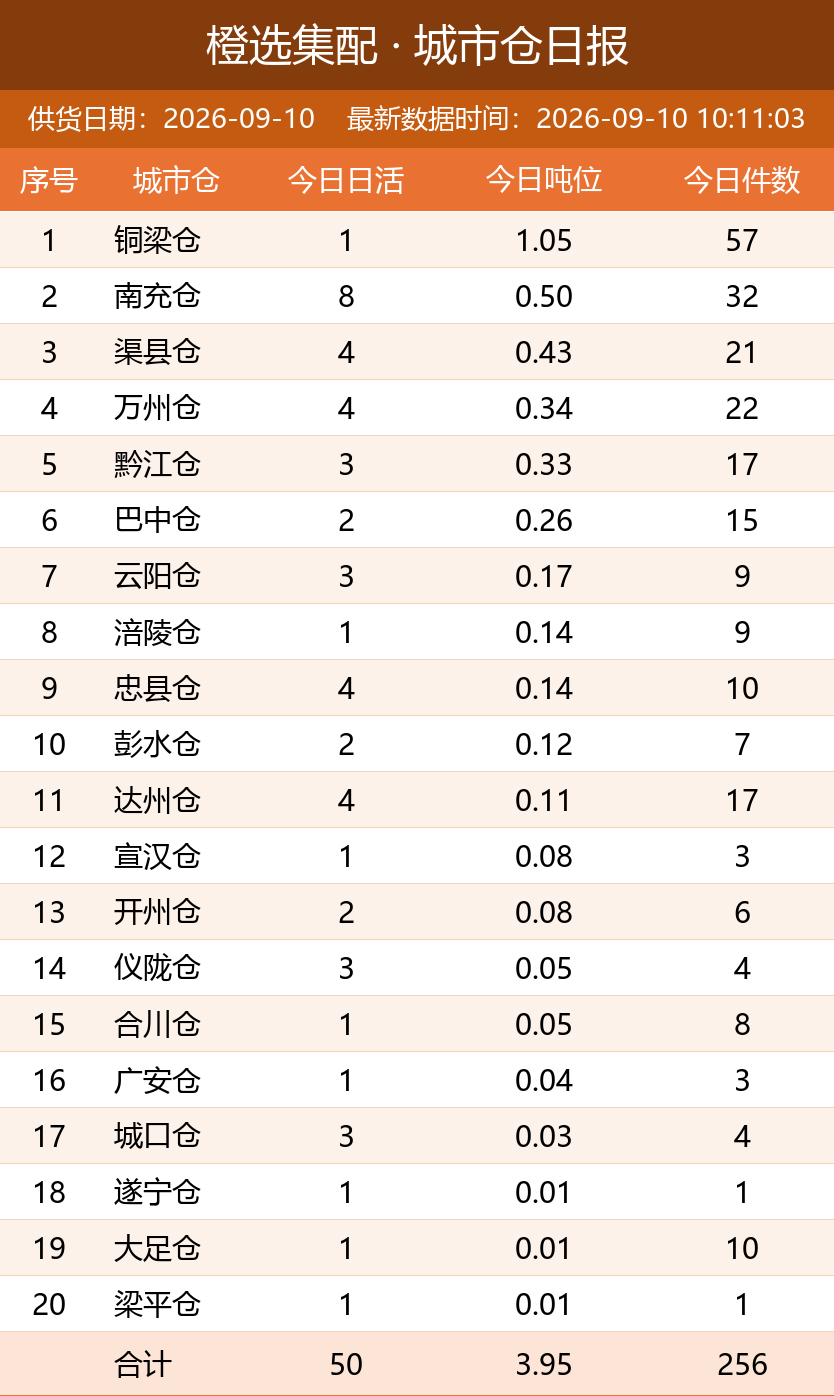
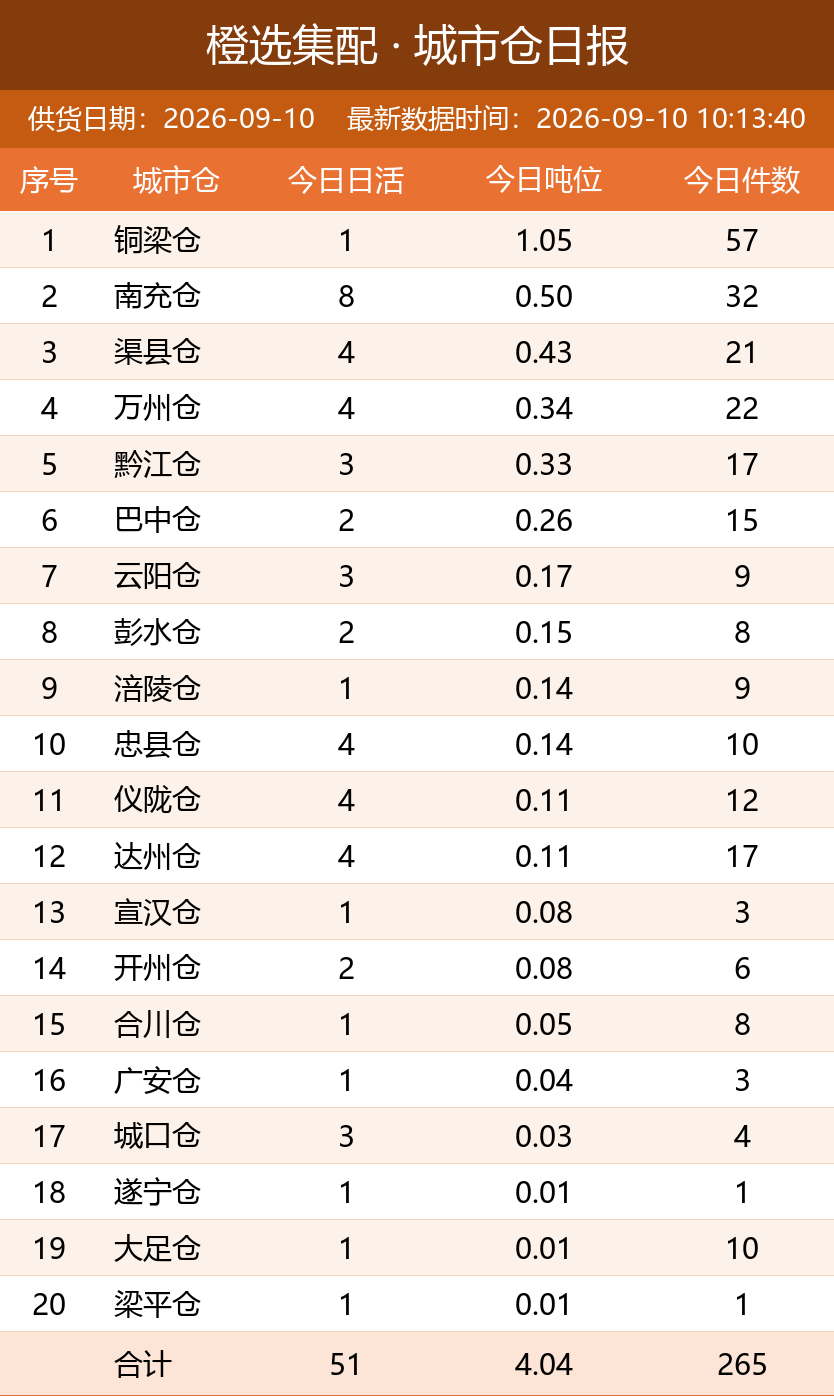
自动更新日报图片

diff --git a/index.html b/index.html
@@ -11,7 +11,7 @@ img { max-width: 100%; border: 1px solid #e5e5e5; margin-bottom: 24px; display: 
 </style>
 </head>
 <body>
-<h1>橙选集配日报图片（20260910_101105）</h1>
+<h1>橙选集配日报图片（20260910_101344）</h1>
 <img src="bd_latest.png" alt="BD 日报">
 <img src="wh_latest.png" alt="城市仓日报">
 <img src="zs_latest.png" alt="招商日报">
